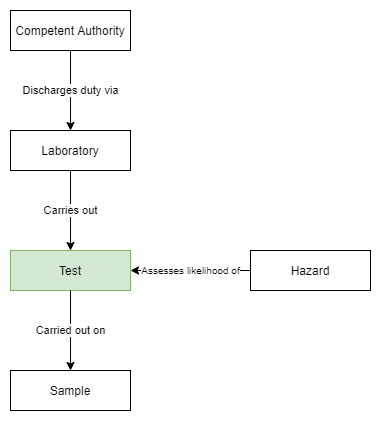
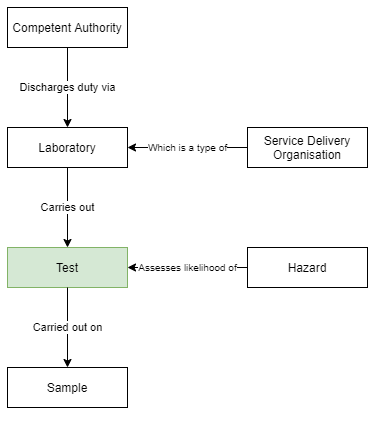
drafts of sample and test completed

Changed region(s): [[0.0, 0.0, 0.9816, 0.9881]]

diff --git a/docs/entities/test.md b/docs/entities/test.md
@@ -1,0 +1,66 @@
+---
+layout: default
+title: Test
+nav_order:
+has_children: false
+parent: Entities
+categories: entity
+---
+
+# Test
+This model was last updated on **08/03/2021**, this is version **0.1**
+
+Draft
+{: .label .label-red }
+
+### Model created
+01/02/2021
+
+## Description
+In the UK, official feed and food tests are carried out from [samples](sample.html) taken by certified professionals and processed at [approved laboratories](laboratory.html) using a method or technique that may be outlined in the appropriate legislation or [scheme](/enterprise-data-models/entities/scheme.html). The test result provides information on a specific food risk in a specific commodity.  
+
+There are also some tests carried out by other competent authorities such as DEFRA and DEARA. These are done on live animals or crops, or within the harvest area i.e. soil or water before harvest, and can also determine if a commodity can enter the food or feed market.
+
+Residual risk is the remaining risk after your control measures are in place. It is not possible to eliminate all the risks.  There will always be some level of residual risk, but it should be as low as reasonably possible. Some risks will remain at a certain level, and this is what residual risks are.  In instances like this there is a recommended Minimum Residual Level (MRL).  As long as the test results fall within the MRL then the risk being tested for in the commodity are deemed safe to enter the food/feed chain.  Please note, not all areas have a legal limit, therefore it is product dependent.
+
+Testing for official controls will meet appropriate standards (accreditation and are validated).
+
+There are three basic standards for 'quality of test'
+-   Inter-lab validated
+-   Single-lab validated
+-   Not validated
+
+Tests are often classified as being formal or informal, and it should be the scheme and activity under which the sample was taken that indiccates this.
+
+### Related entities
+A [sample](enterprise-data-models/entities/sample.html) is the subject of a test.
+Tests are carried out by a [Laboratory](enterprise-data-models/entities/laboratory.html), which in data modelling terms, are a sub-class of [Service Delivery Organisation](/enterprise-data-models/entities/service-delivery-organisation.html).
+Tests are often carried out as part of a [survey](), which we consider to be a sub-class of [scheme](/enterprise-data-models/entities/scheme.html)
+
+### Entity relationship diagram
+![test](/enterprise-data-models/entities/diagrams/test.png)
+
+### Synonyms
+*   A test can sometimes be referred to as analysis
+
+### What it is not
+Not all tests are used for testing of food safety interventions or investigations. Some businesses will initiate their own testing regime for various reasons that could include quality control.
+
+## Properties, identifiers and reference data
+
+### Key Properties
+*   The sample reference is the unique identifier of the sample that was tested, but this can often vary across applications and services that hadle sample data  
+*   The test reference is the reference number of the to identify the tests, which can often vary across applications and services  
+*   The risk or hazard being tested for
+*   The result, which is not always a simple pass or fail  
+*   The method used to test the sample  
+*   The accuracy of result, to what level is the result accurate  
+
+### Contextual Properties
+*   The minimum residual level is a contextual property as it is not always present
+*   Any additional report or the opinion of the analyst, which is most useful when there are no minimum legal levels  
+
+### Unique Identifiers
+There are sample and test identifiers but they are not in a standard format or form part of a standardised taxonomy.
+
+## External sources and further reading

diff --git a/docs/entities/sample.md b/docs/entities/sample.md
@@ -68,9 +68,8 @@ There a no unique identifiers which are consistent across all samples, schemes, 
 *   Commodity codes for import
 *   Existing legacy food classification taxonomies, like [this example](https://data.food.gov.uk/codes/enforcement-monitoring/sampling/_classifications).
 
-It should be noted that products taken as samples can often be classified entirely using free-text fields.
+It should be noted that products taken as samples can often be classified solely with free-text.
 
 ### Reference data
-
 
 ## External sources and further reading

diff --git a/models/drafts/laboratory.md b/models/drafts/laboratory.md
@@ -10,8 +10,8 @@ categories: entity
 # Premises
 This model was last updated on **10/03/2020**, this is version **0.1**
 
-Experimental
-{: .label .label-yellow }
+Draft
+{: .label .label-red }
 
 ### Model created
 10/03/2020
